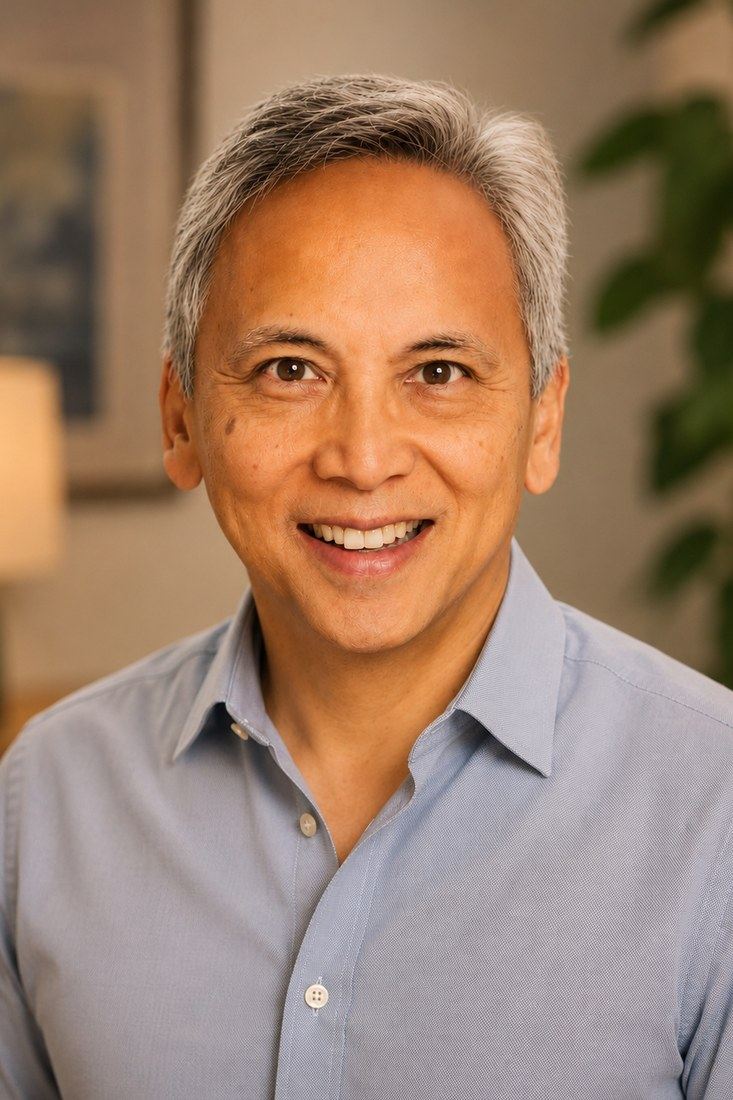
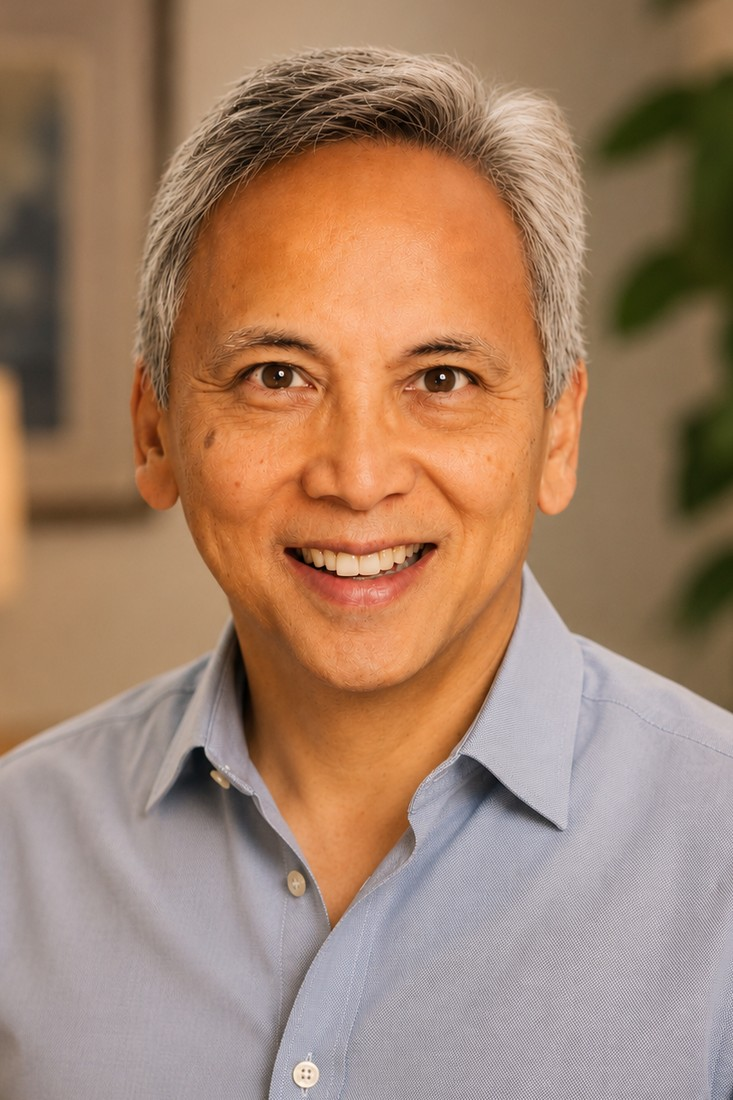
Tighten Sonny's headshot crop (v4)

diff --git a/clinicians.html b/clinicians.html
@@ -68,7 +68,7 @@
       <article class="person" id="manuel">
         <div class="portrait">
           <figure class="figure">
-            <img src="assets/img/sonny-manuel.jpg?v=3" alt="Dr. Gerdenio &quot;Sonny&quot; Manuel, S.J." />
+            <img src="assets/img/sonny-manuel.jpg?v=4" alt="Dr. Gerdenio &quot;Sonny&quot; Manuel, S.J." />
           </figure>
           <ul class="cred-list">
             <li>Ph.D., Clinical Psychology — Duke University</li>